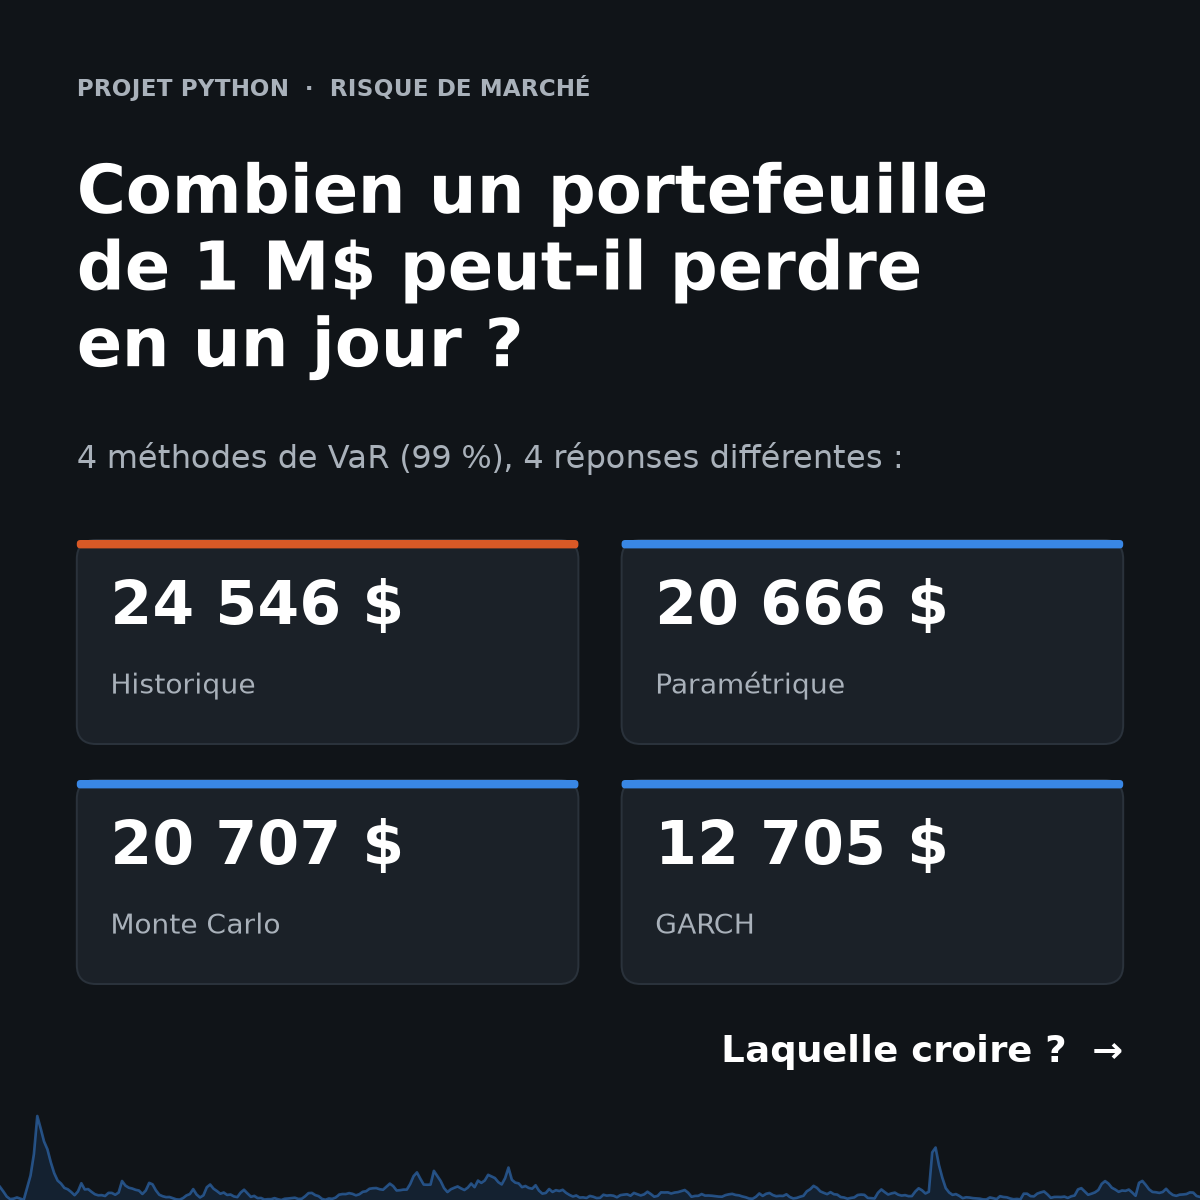
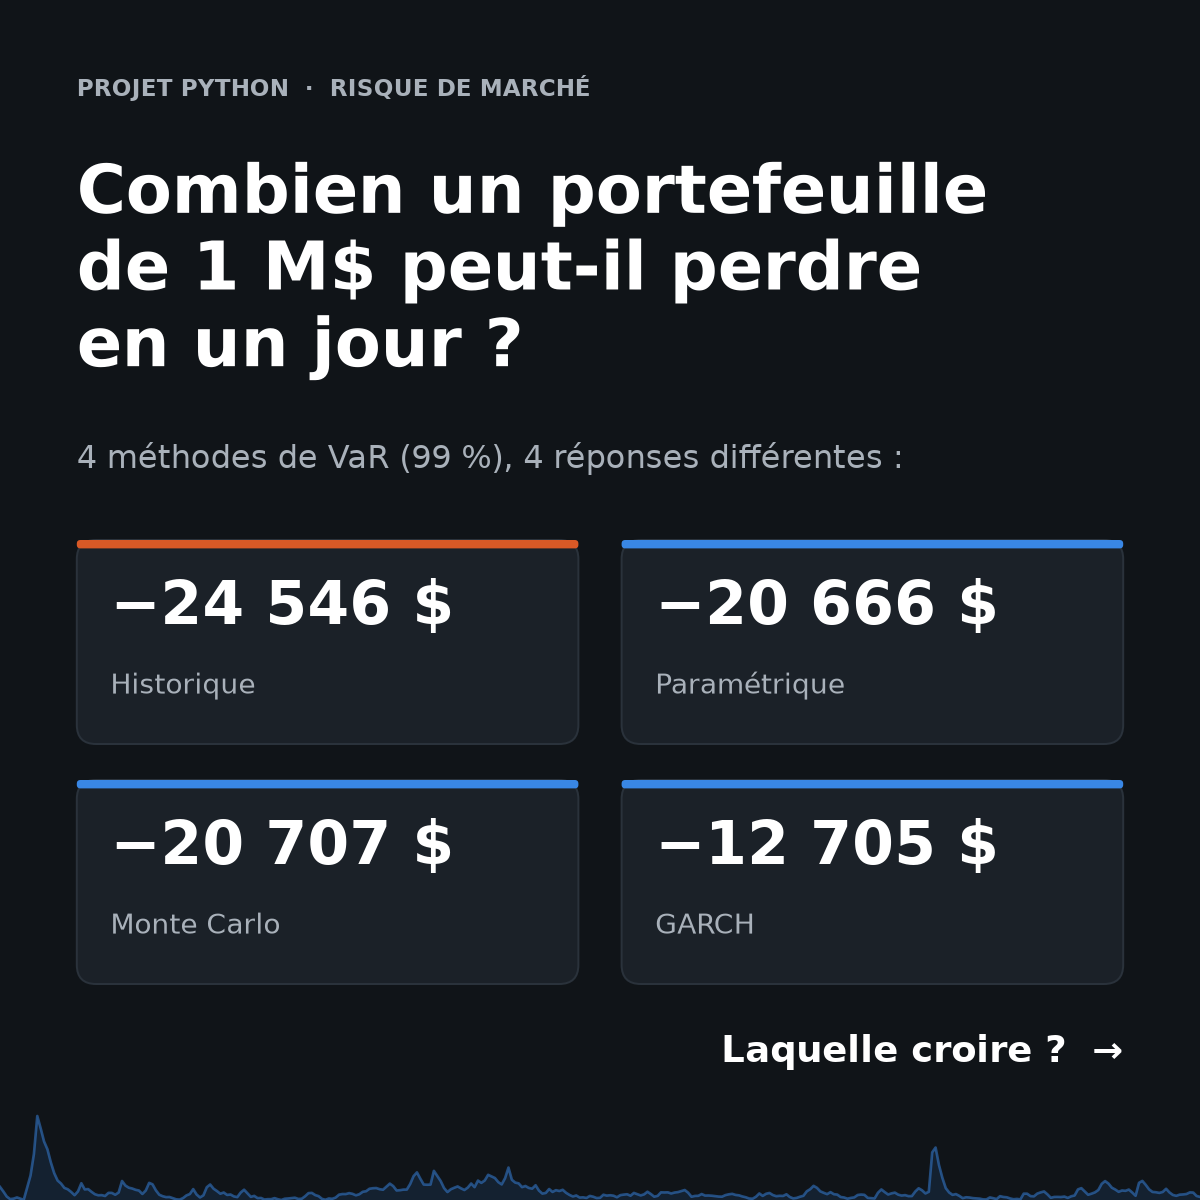
Cover: show VaR figures as losses

diff --git a/generate_charts.py b/generate_charts.py
@@ -144,7 +144,7 @@ for i, (lab, v) in enumerate(tiles):
     x = 64 + (i % 2) * (cw + gx)
     y = 380 - (i // 2) * (ch + gy)
     card(ax, x, y, cw, ch, ORANGE_D if i == 0 else BLUE_D)
-    ax.text(x + 28, y + 100, usd(v * V), color=WHITE, fontsize=36, weight="bold")
+    ax.text(x + 28, y + 100, "−" + usd(v * V), color=WHITE, fontsize=36, weight="bold")
     ax.text(x + 28, y + 42, lab, color=SOFT, fontsize=17)
 ax.text(936, 115, "Laquelle croire ?  →", color=WHITE, fontsize=22, weight="bold", ha="right")
 save(fig, "1_couverture.png", BG, dpi=120)
